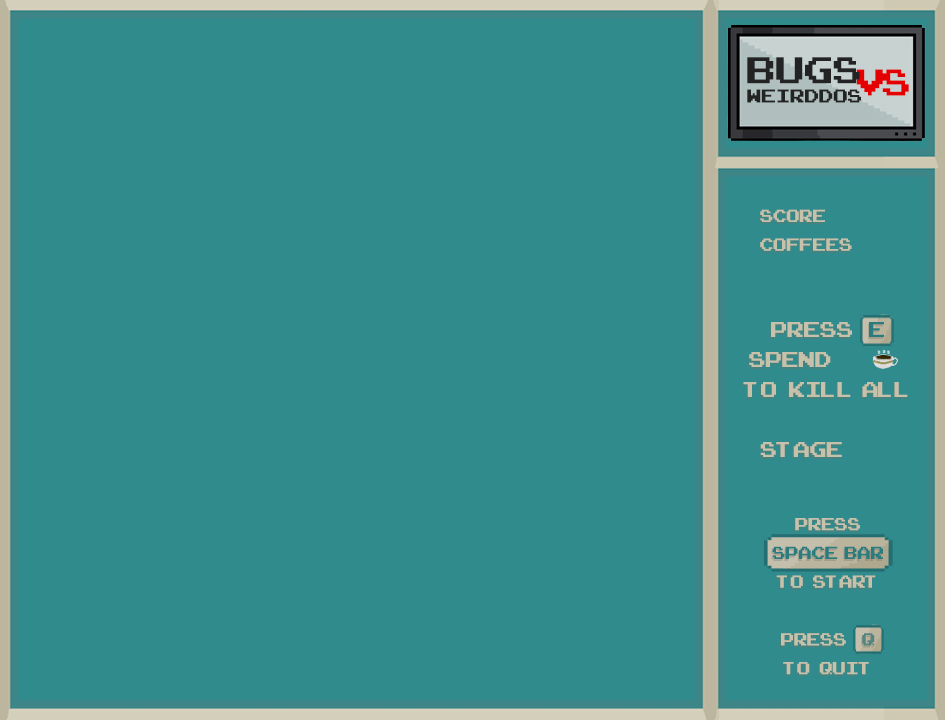
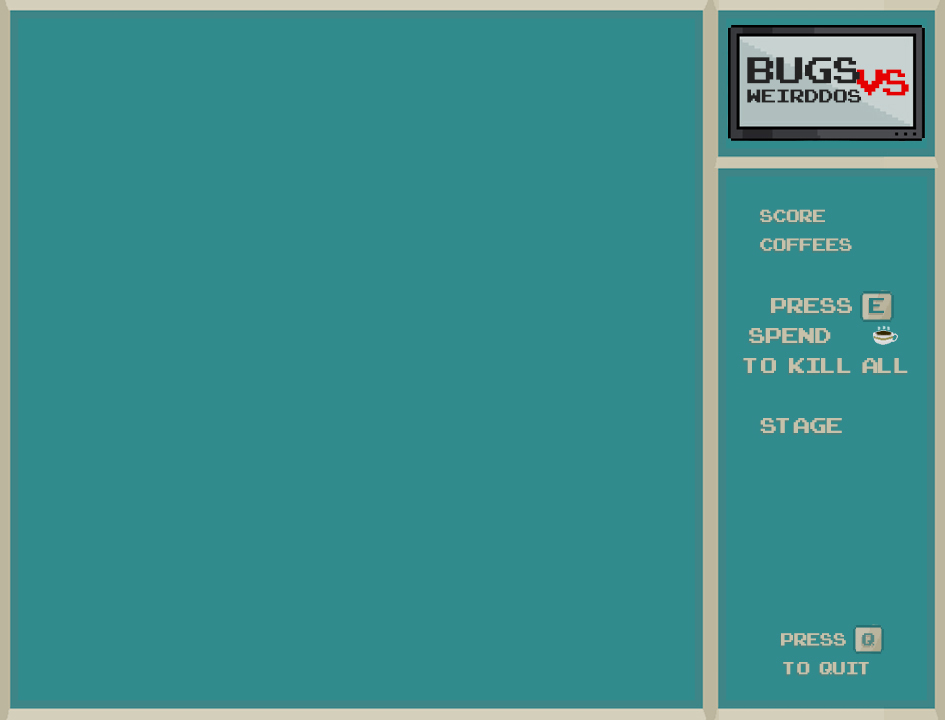
fixed sound and txt saving and changed background

Changed region(s): [[0.7672, 0.3972, 0.9513, 0.55], [0.7979, 0.7028, 0.9513, 0.825], [0.7979, 0.5806, 0.8899, 0.6417]]

diff --git a/src/Game/Game.java b/src/Game/Game.java
@@ -13,8 +13,8 @@ import org.academiadecodigo.simplegraphics.graphics.Text;
 import org.academiadecodigo.simplegraphics.pictures.Picture;
 
 import javax.sound.sampled.*;
-import java.io.File;
 import java.io.IOException;
+import java.net.URL;
 
 public class Game {
 
@@ -40,24 +40,21 @@ public class Game {
     private final static double CPU_OFFSET = 7.4;
     public boolean isStarted;
 
-    private static final String AUDIO = "resources/8bit-st.wav";
-
     public void playerInit() {
 
         try {
-            AudioInputStream audio = AudioSystem.getAudioInputStream(new File(AUDIO).getAbsoluteFile());
+            URL audioUrl = getClass().getResource("/8bit-st.wav");
+            AudioInputStream audio = AudioSystem.getAudioInputStream(audioUrl);
+
             Clip clip = AudioSystem.getClip();
             clip.open(audio);
+            clip.start();
 
             FloatControl gainControl =
                     (FloatControl) clip.getControl(FloatControl.Type.MASTER_GAIN);
-            gainControl.setValue(-10.0f); // Reduce volume by 10 decibels.
-            clip.start();
-            
+                gainControl.setValue(-15.0f);
             clip.loop(Clip.LOOP_CONTINUOUSLY);
-        } catch (UnsupportedAudioFileException e) {
-            e.printStackTrace();
-        } catch (IOException | LineUnavailableException e) {
+        } catch (UnsupportedAudioFileException | IOException | LineUnavailableException e) {
             e.printStackTrace();
         }
 
@@ -77,6 +74,7 @@ public class Game {
         while(!isStarted){
             Thread.yield();
         }
+
         startScreen.delete();
         try {
             Thread.sleep(1300);
@@ -98,12 +96,12 @@ public class Game {
         coffeeScore.setColor(color);
         coffeeScore.draw();
 
-        coffeeToSpend = new Text(847, 350, "X");
+        coffeeToSpend = new Text(847, 326, "X");
         coffeeToSpend.grow(8, 8);
         coffeeToSpend.setColor(colorRed);
         coffeeToSpend.draw();
 
-        stageNumber = new Text(865, 440, String.valueOf(stage));
+        stageNumber = new Text(865, 416, String.valueOf(stage));
         stageNumber.grow(8, 8);
         stageNumber.setColor(color);
         stageNumber.draw();
@@ -244,7 +242,7 @@ public class Game {
 
     public void coffeeToSpendUpdate(){
         coffeeToSpend.delete();
-        coffeeToSpend = new Text(849, 350, String.valueOf(coffeesToSpend));
+        coffeeToSpend = new Text(849, 326, String.valueOf(coffeesToSpend));
         coffeeToSpend.setColor(color);
         coffeeToSpend.grow(8*String.valueOf(coffeesToSpend).length(), 8);
         coffeeToSpend.draw();

diff --git a/src/Game/ScoreSaver.java b/src/Game/ScoreSaver.java
@@ -4,7 +4,7 @@ import java.io.*;
 
 public class ScoreSaver {
 
-    private static final String FILE = "resources/score.txt";
+    private static final String FILE = "classpath:score.txt";
     private int currentScore;
     private int highScore;
 
